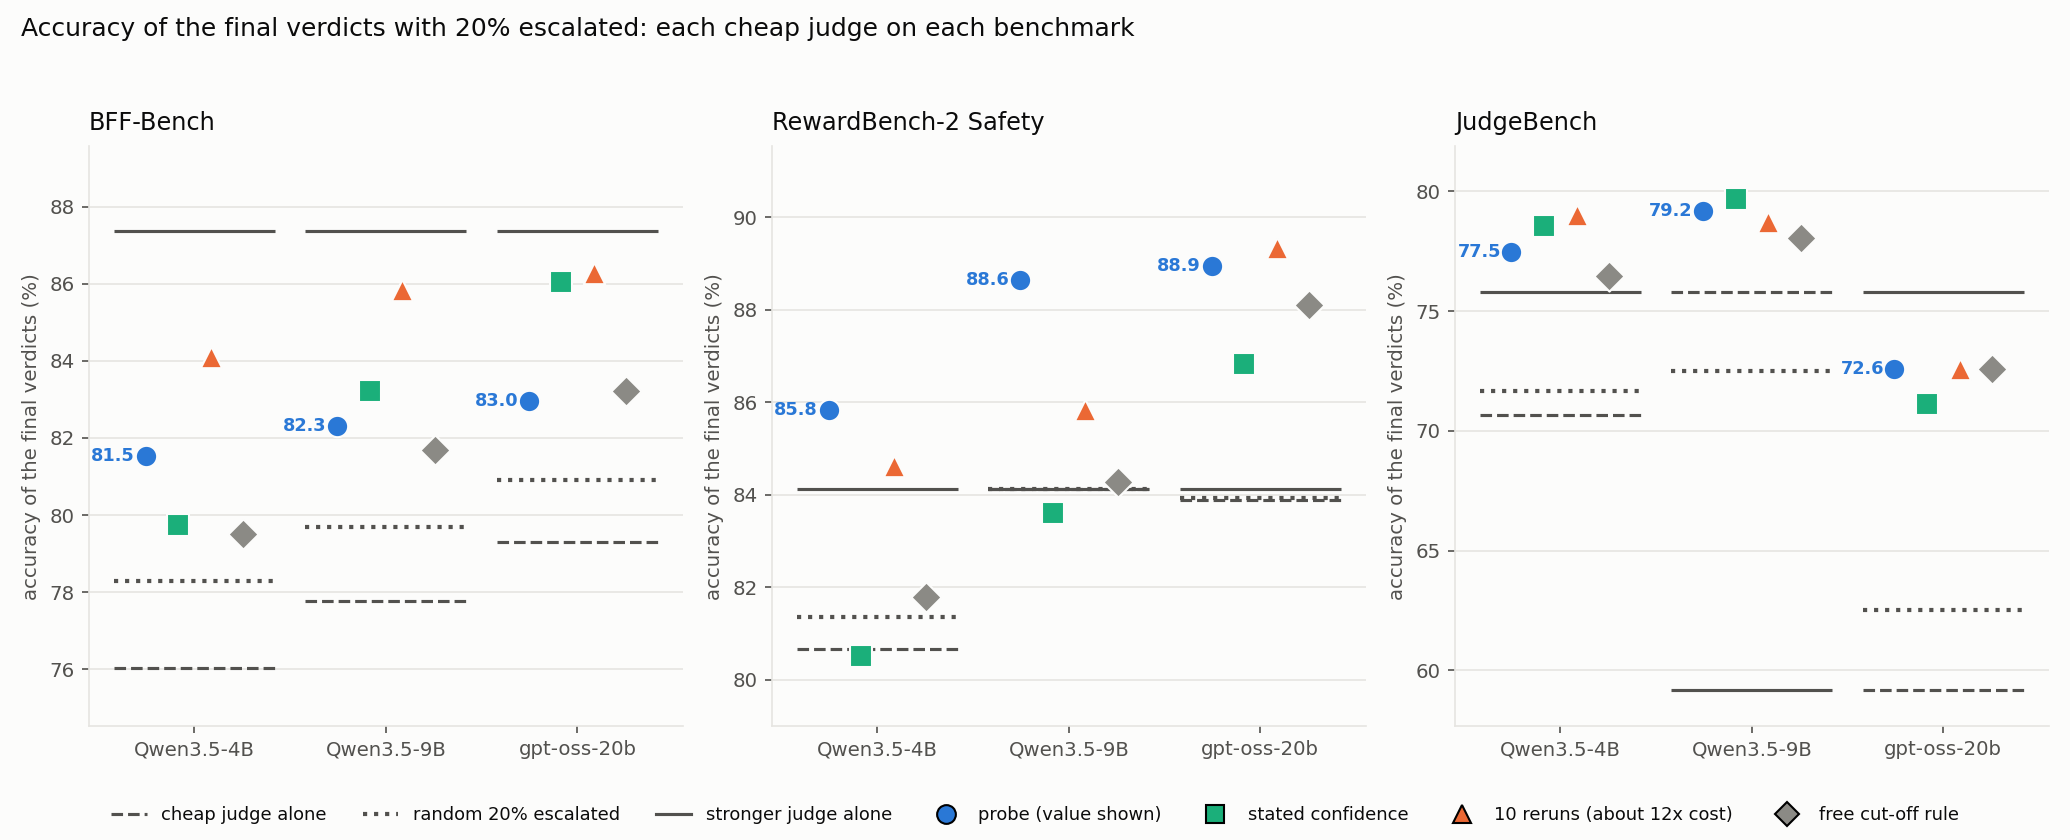
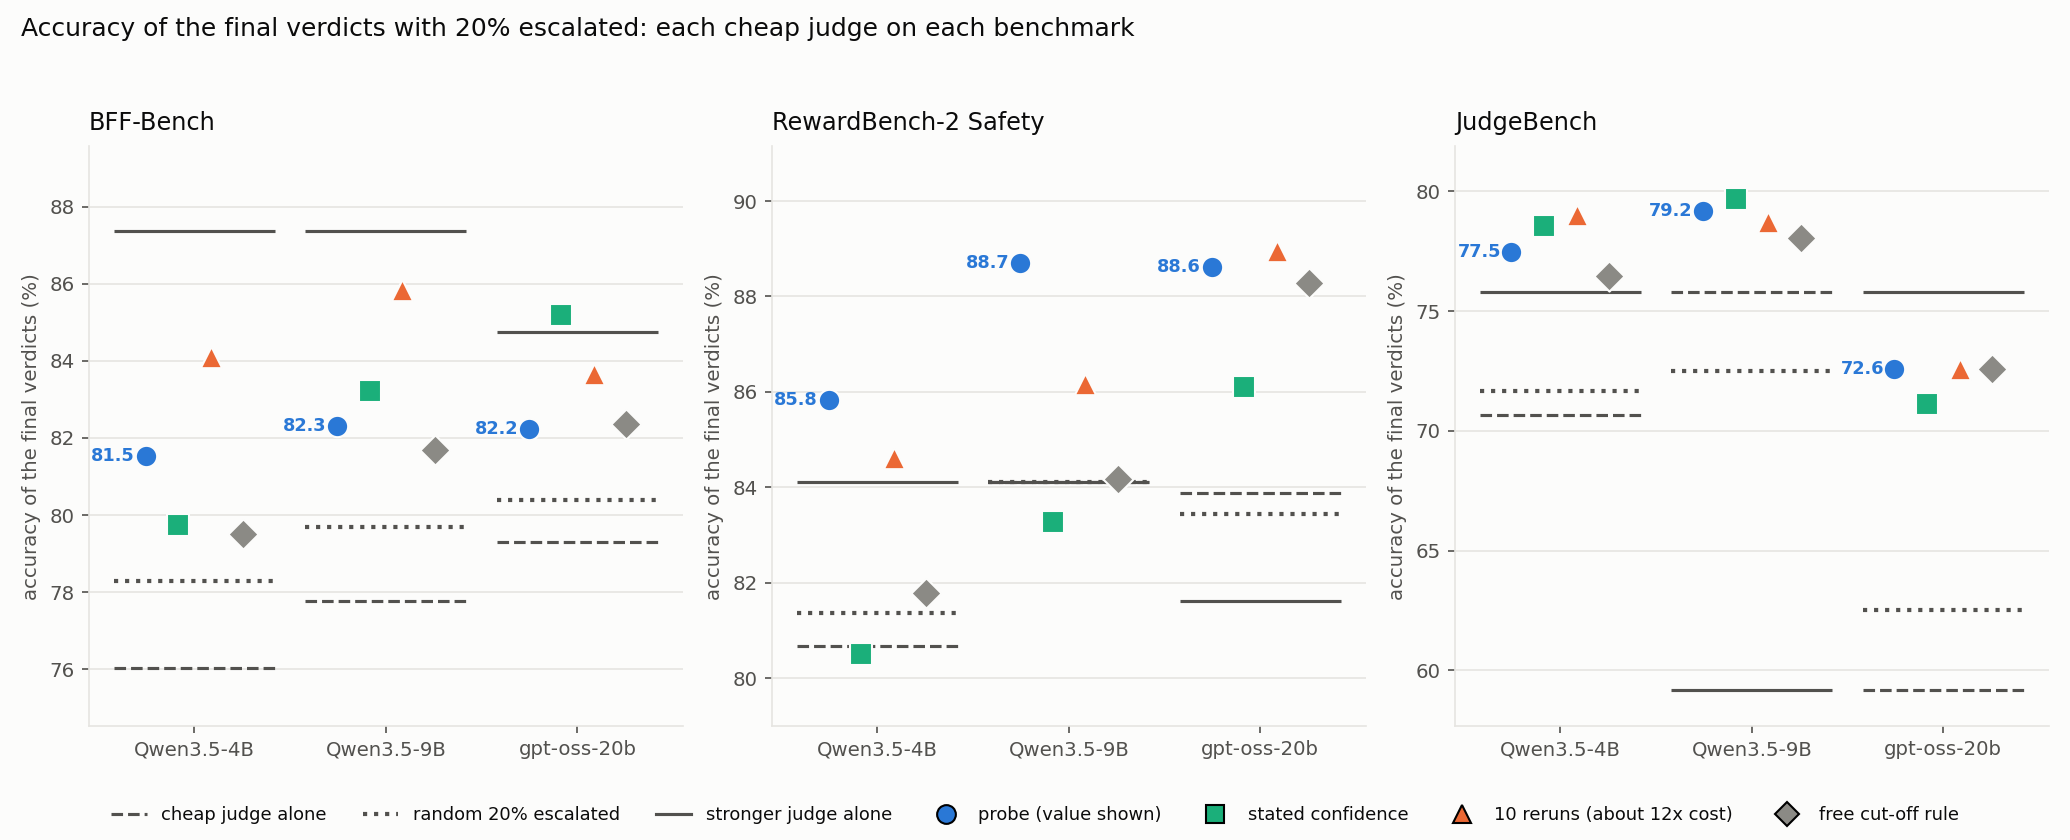
Calibrating LLM Judges: fix the stronger panel (never includes the cheap judge's own model); recompute the three affected settings
Affected: RewardBench-2 for Qwen3.5-9B and gpt-oss-20b, BFF for gpt-oss-20b. The other six settings are unchanged and no conclusion changes (probe beats 10 reruns in 3 of 9, loses in 5, ties in 1; beats the free rule in 7 of 9).

diff --git a/experiments/calibrating_judges/cascade_eval.py b/experiments/calibrating_judges/cascade_eval.py
@@ -113,7 +113,8 @@ def main():
         targets = {f"{a.high} (reasoning judge)": H["correct"].values.astype(int)}
         if b in ("bff", "rb2safety"):
             d = load_judgments(a.judgments_bff if b == "bff" else a.judgments_rb2, b, condition="none"); C = match_matrix(d.Z, d.Y).astype(int); jn = list(d.judge_names); idx = {i: k for k, i in enumerate(d.item_ids)}
-            sel = np.array([idx.get(i, -1) for i in ids]); assert (sel >= 0).all(), "item ids of the judge pool do not cover our items"; C = C[sel]; acc = C.mean(0); top3 = list(np.argsort(-acc)[:3]); best = int(np.argmax(acc))
+            sel = np.array([idx.get(i, -1) for i in ids]); assert (sel >= 0).all(), "item ids of the judge pool do not cover our items"; C = C[sel]; acc = C.mean(0); accx = acc.copy(); accx[[k for k, n_ in enumerate(jn) if n_.lower() == lkey]] = -1.0   # the cheap judge's own model is never part of its stronger panel
+            top3 = list(np.argsort(-accx)[:3]); best = int(np.argmax(accx)); print(f"  [{b}] stronger panel for {a.low} (its own model excluded): {[jn[i] for i in top3]}  best single: {jn[best]}", flush=True)
             Zs0 = d.Z[sel]; oth = [k for k, n_ in enumerate(jn) if n_.lower() != lkey]; disc = np.array([np.nan if np.isnan(lv[i]) else np.mean(Zs0[i, oth] != lv[i]) for i in range(len(ids))], dtype=float)
             print(f"  [{b}] sanity: L's verdict agrees with the saved pool's majority on {np.nanmean((lv == (Zs0[:, oth].mean(1) > 0.5)).astype(float)[parsed]):.3f} of finished items; L is excluded from its own pool", flush=True)
             targets[f"best saved judge: {jn[best]}"] = C[:, best]; Zs = d.Z[sel]; vote = (Zs[:, top3].sum(1) * 2 > 3).astype(int); targets["saved top-3 vote: " + ", ".join(jn[i] for i in top3)] = (vote == d.Y[sel]).astype(int)

diff --git a/experiments/calibrating_judges/layer_sweep.py b/experiments/calibrating_judges/layer_sweep.py
@@ -30,7 +30,7 @@ def main():
             _, ph = load_run(a.results, a.high, b, "uncertainty__n1_t0.0"); ok_h = gen(f"{ph}_gen.jsonl").set_index("item_id").loc[itm["item_id"], "correct"].values.astype(int)
         else:                                                                    # stronger judge: the saved top-3 vote of the 8-judge pool
             d = load_judgments(a.judgments_bff if b == "bff" else a.judgments_rb2, b, condition="none"); C = match_matrix(d.Z, d.Y).astype(int); idx = {i: k for k, i in enumerate(d.item_ids)}
-            sel = np.array([idx[i] for i in itm["item_id"]]); top3 = list(np.argsort(-C[sel].mean(0))[:3]); ok_h = ((d.Z[sel][:, top3].sum(1) * 2 > 3).astype(int) == d.Y[sel]).astype(int)
+            sel = np.array([idx[i] for i in itm["item_id"]]); accx = C[sel].mean(0); accx[[k for k, n_ in enumerate(list(d.judge_names)) if n_.lower() == a.low.lower()]] = -1.0; top3 = list(np.argsort(-accx)[:3]); ok_h = ((d.Z[sel][:, top3].sum(1) * 2 > 3).astype(int) == d.Y[sel]).astype(int)
         ctx[b] = dict(ok_l=ok_l, ok_h=ok_h, parsed=parsed, a_low=ok_l.mean(), rnd=ok_l.mean() + 0.2 * (ok_h.mean() - ok_l.mean()))
     A = np.concatenate(A); Y = np.concatenate(Y); G = np.array(G); bench_of = np.array(bench_of)
     rng = np.random.default_rng(a.seed); ug = rng.permutation(np.unique(G)); fold_of = {g: i % 5 for i, g in enumerate(ug)}; f = np.array([fold_of[g] for g in G]); splits = []

diff --git a/experiments/calibrating_judges/make_figures.py b/experiments/calibrating_judges/make_figures.py
@@ -6,7 +6,7 @@ import numpy as np, pandas as pd
 import matplotlib; matplotlib.use("Agg"); import matplotlib.pyplot as plt
 
 here = os.path.dirname(os.path.abspath(__file__)); out = os.path.join(here, "figures"); os.makedirs(out, exist_ok=True)
-RUNS = [("Qwen3.5-4B", "results_cascade_4b_v3"), ("Qwen3.5-9B", "results_cascade_9b_v3"), ("gpt-oss-20b", "results_cascade_oss_v3")]
+RUNS = [("Qwen3.5-4B", "results_cascade_4b_v3"), ("Qwen3.5-9B", "results_cascade_9b_v4"), ("gpt-oss-20b", "results_cascade_oss_v4")]
 BLUE, ORANGE, AQUA, GRAY, INK, INK2, GRID, SURF = "#2a78d6", "#eb6834", "#1baf7a", "#8b8a85", "#0b0b0b", "#52514e", "#e6e5e1", "#fcfcfb"
 plt.rcParams.update({"figure.facecolor": SURF, "axes.facecolor": SURF, "axes.edgecolor": GRID, "axes.labelcolor": INK2, "xtick.color": INK2, "ytick.color": INK2, "text.color": INK,
                      "font.size": 9.5, "axes.spines.top": False, "axes.spines.right": False, "axes.grid": True, "grid.color": GRID, "grid.linewidth": 0.8, "axes.axisbelow": True})

diff --git a/experiments/calibrating_judges/README.md b/experiments/calibrating_judges/README.md
@@ -7,7 +7,7 @@ Replication of *Calibrating LLM Judges: Linear Probes for Fast and Reliable Unce
 - **The test:** a cheap judge grades every item. A **signal** gives each verdict a trust score. The 20% with the lowest trust go to a stronger judge, whose verdict replaces the cheap one. Verdicts that never finished go first.
 - **The metric:** the accuracy of the final verdicts against the human labels, compared with the accuracy we would get by escalating a random 20% instead. Example: Qwen3.5-4B on RewardBench-2 gets 81.4% with random escalation and 85.8% when the probe chooses.
 - **The probe:** a tiny trained scorer on the judge's activations (its internal numbers) at the last token it writes. One probe per judge, trained on questions it never scores.
-- **Judges and data:** cheap judges Qwen3.5-4B, Qwen3.5-9B and gpt-oss-20b, each on BFF-Bench (finance, 459 items), RewardBench-2 Safety (1,800 items) and JudgeBench (620 pairs). The stronger judge is the saved top-3 vote of our 8-judge pool (BFF, RewardBench-2) or another hosted judge (JudgeBench).
+- **Judges and data:** cheap judges Qwen3.5-4B, Qwen3.5-9B and gpt-oss-20b, each on BFF-Bench (finance, 459 items), RewardBench-2 Safety (1,800 items) and JudgeBench (620 pairs). The stronger judge is the saved top-3 vote of the other judges in our 8-judge pool (BFF, RewardBench-2; the cheap judge's own model is never in its panel) or another hosted judge (JudgeBench).
 - **Compared with:** the judge's stated confidence, token probabilities, a free rule (escalate only answers that were cut off), 10 reruns (about 12x the generation) and other judges' disagreement (needs those judges).
 - **No averaging:** every number below is for one cheap judge on one benchmark.
 
@@ -17,8 +17,8 @@ Replication of *Calibrating LLM Judges: Linear Probes for Fast and Reliable Unce
 
 Each panel is a benchmark and each group of dots is one cheap judge. Dashed line: the cheap judge alone. Dotted: random 20% escalation. Solid: the stronger judge alone.
 
-- **RewardBench-2:** for the two Qwen judges the probe is the best signal: 85.8% (4B) and 88.6% (9B), above 10 reruns (84.6%, 85.8%), above the stronger judge alone (84.1%) and well above random (81.4%, 84.1%). For gpt-oss-20b the probe (88.9%) is level with 10 reruns (89.3%) and the free cut-off rule (88.1%).
-- **BFF:** the probe (81.5%, 82.3%, 83.0% for the 4B, 9B and gpt-oss) is behind 10 reruns (84.1%, 85.8%, 86.3%) and behind other judges' disagreement (85.2%, 86.3%, 86.1%) for all three judges. For gpt-oss, stated confidence (86.1%) is also well above it.
+- **RewardBench-2:** for the two Qwen judges the probe is the best signal: 85.8% (4B) and 88.7% (9B), above 10 reruns (84.6%, 86.2%), above the stronger judge alone (84.1% for both) and well above random (81.4%, 84.1%). For gpt-oss-20b the probe (88.6%) is level with 10 reruns (88.9%) and the free cut-off rule (88.3%); there the stronger panel (81.6%) is below the cheap judge itself (83.9%).
+- **BFF:** the probe (81.5%, 82.3%, 82.2% for the 4B, 9B and gpt-oss) is behind 10 reruns (84.1%, 85.8%, 83.7%) and behind other judges' disagreement (85.2%, 86.3%, 84.3%) for all three judges. For gpt-oss, stated confidence (85.2%) is also above it.
 - **JudgeBench:** the probe (77.5%, 79.2%, 72.6%) is within 1.5 points of the best signal for every judge. For gpt-oss every signal except stated confidence ends at exactly 72.6%: 26% of its answers were cut off, and escalating those first leaves little to rank. For the 9B the stronger judge (gpt-oss) is weaker than the 9B itself (59.2% against 75.8%).
 
 Setting by setting, the probe beats 10 reruns in 3 of 9, loses in 5 and ties in 1. It beats the free cut-off rule in 7 of 9.
@@ -31,10 +31,10 @@ The best of the six signals in each row is in bold. Stated confidence comes from
 |---|---|---|---|---|---|---|---|---|---|---|
 | BFF | Qwen3.5-4B | 76.0 | 78.3 | 81.5 | 84.1 | **85.2** | 81.3 | 79.7 | 79.5 | 87.4 |
 | BFF | Qwen3.5-9B | 77.8 | 79.7 | 82.3 | 85.8 | **86.3** | 83.2 | 83.2 | 81.7 | 87.4 |
-| BFF | gpt-oss-20b | 79.3 | 80.9 | 83.0 | **86.3** | 86.1 | 84.5 | 86.1 | 83.2 | 87.4 |
+| BFF | gpt-oss-20b | 79.3 | 80.4 | 82.2 | 83.7 | 84.3 | 84.3 | **85.2** | 82.4 | 84.7 |
 | RewardBench-2 | Qwen3.5-4B | 80.7 | 81.4 | **85.8** | 84.6 | 83.1 | 81.8 | 80.5 | 81.8 | 84.1 |
-| RewardBench-2 | Qwen3.5-9B | 84.1 | 84.1 | **88.6** | 85.8 | 83.5 | 84.1 | 83.6 | 84.3 | 84.1 |
-| RewardBench-2 | gpt-oss-20b | 83.9 | 83.9 | 88.9 | **89.3** | 85.5 | 87.8 | 86.8 | 88.1 | 84.1 |
+| RewardBench-2 | Qwen3.5-9B | 84.1 | 84.1 | **88.7** | 86.2 | 83.2 | 84.3 | 83.3 | 84.2 | 84.1 |
+| RewardBench-2 | gpt-oss-20b | 83.9 | 83.4 | 88.6 | **88.9** | 83.4 | 87.1 | 86.1 | 88.3 | 81.6 |
 | JudgeBench | Qwen3.5-4B | 70.6 | 71.7 | 77.5 | **79.0** | 77.9 | 76.8 | 78.5 | 76.5 | 75.8 |
 | JudgeBench | Qwen3.5-9B | 75.8 | 72.5 | 79.2 | 78.7 | 76.9 | **79.8** | 79.7 | 78.1 | 59.2 |
 | JudgeBench | gpt-oss-20b | 59.2 | 62.5 | **72.6** | **72.6** | **72.6** | **72.6** | 71.1 | **72.6** | 75.8 |
@@ -69,16 +69,16 @@ Accuracy (%) with 20% escalated. In the "unseen" column the probe was trained on
 |---|---|---|---|---|---|---|
 | BFF | Qwen3.5-4B | 78.3 | 81.0 | **81.5** | 84.1 | 79.5 |
 | BFF | Qwen3.5-9B | 79.7 | 82.8 | **81.7** | 85.8 | 81.7 |
-| BFF | gpt-oss-20b | 80.9 | 82.4 | **83.2** | 86.3 | 83.2 |
+| BFF | gpt-oss-20b | 80.4 | 81.9 | **81.9** | 83.7 | 82.4 |
 | RewardBench-2 | Qwen3.5-4B | 81.4 | 85.8 | **81.8** | 84.6 | 81.8 |
-| RewardBench-2 | Qwen3.5-9B | 84.1 | 88.8 | **82.1** | 85.8 | 84.3 |
-| RewardBench-2 | gpt-oss-20b | 83.9 | 88.8 | **87.4** | 89.3 | 88.1 |
+| RewardBench-2 | Qwen3.5-9B | 84.1 | 88.8 | **81.9** | 86.2 | 84.2 |
+| RewardBench-2 | gpt-oss-20b | 83.4 | 88.6 | **87.1** | 88.9 | 88.3 |
 | JudgeBench | Qwen3.5-4B | 71.7 | 77.7 | **77.4** | 79.0 | 76.5 |
 | JudgeBench | Qwen3.5-9B | 72.5 | 79.4 | **78.5** | 78.7 | 78.1 |
 | JudgeBench | gpt-oss-20b | 62.5 | 72.6 | **72.6** | 72.6 | 72.6 |
 
-- On an unseen benchmark the probe is within 2 points of the free cut-off rule in every one of the 9 settings (from -2.2 to +2.0).
-- On RewardBench-2, where the probe won, it falls to about random escalation for the 4B (81.8% against 81.4%) and below it for the 9B (82.1% against 84.1%).
+- On an unseen benchmark the probe is within about 2 points of the free cut-off rule in every one of the 9 settings (from -2.3 to +2.0).
+- On RewardBench-2, where the probe won, it falls to about random escalation for the 4B (81.8% against 81.4%) and below it for the 9B (81.9% against 84.1%).
 - So the probe needs labelled data from each new kind of task.
 
 ## 4. Which layer to read the probe from?
